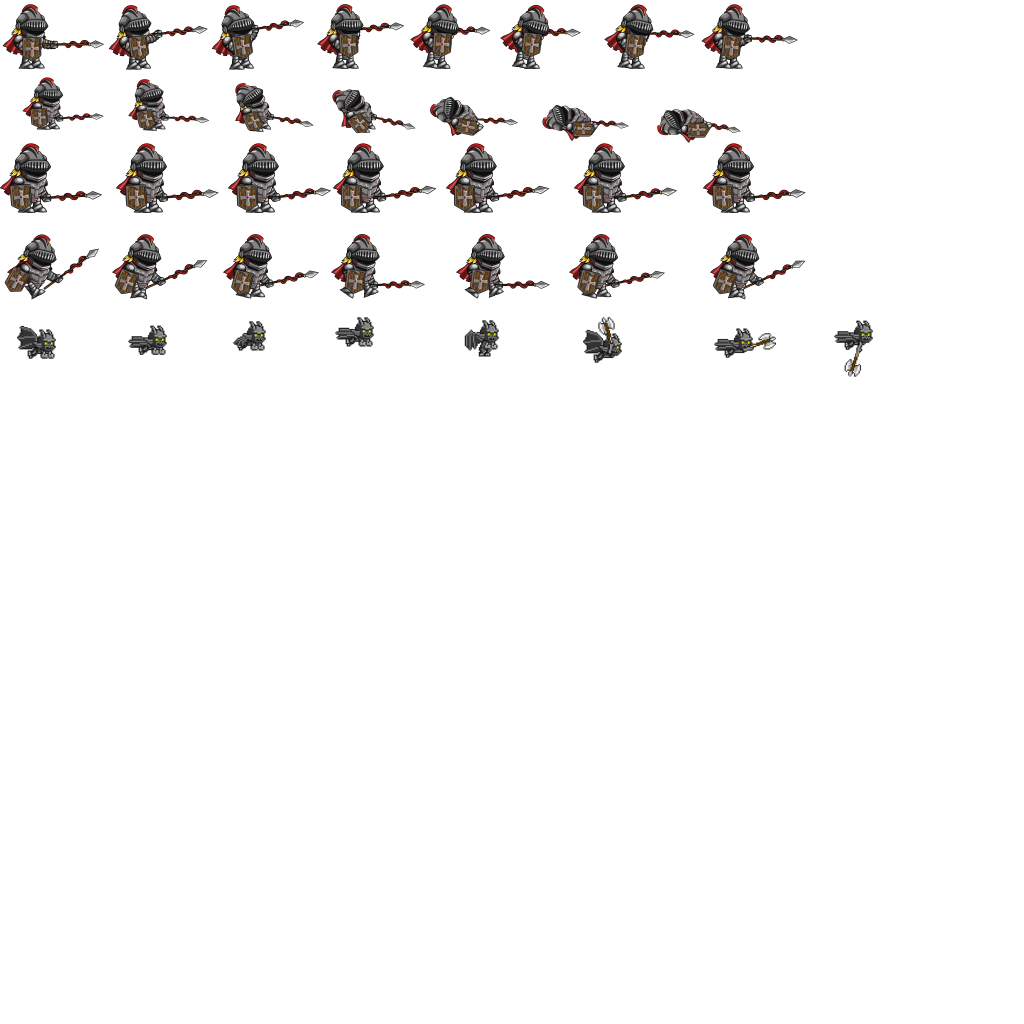
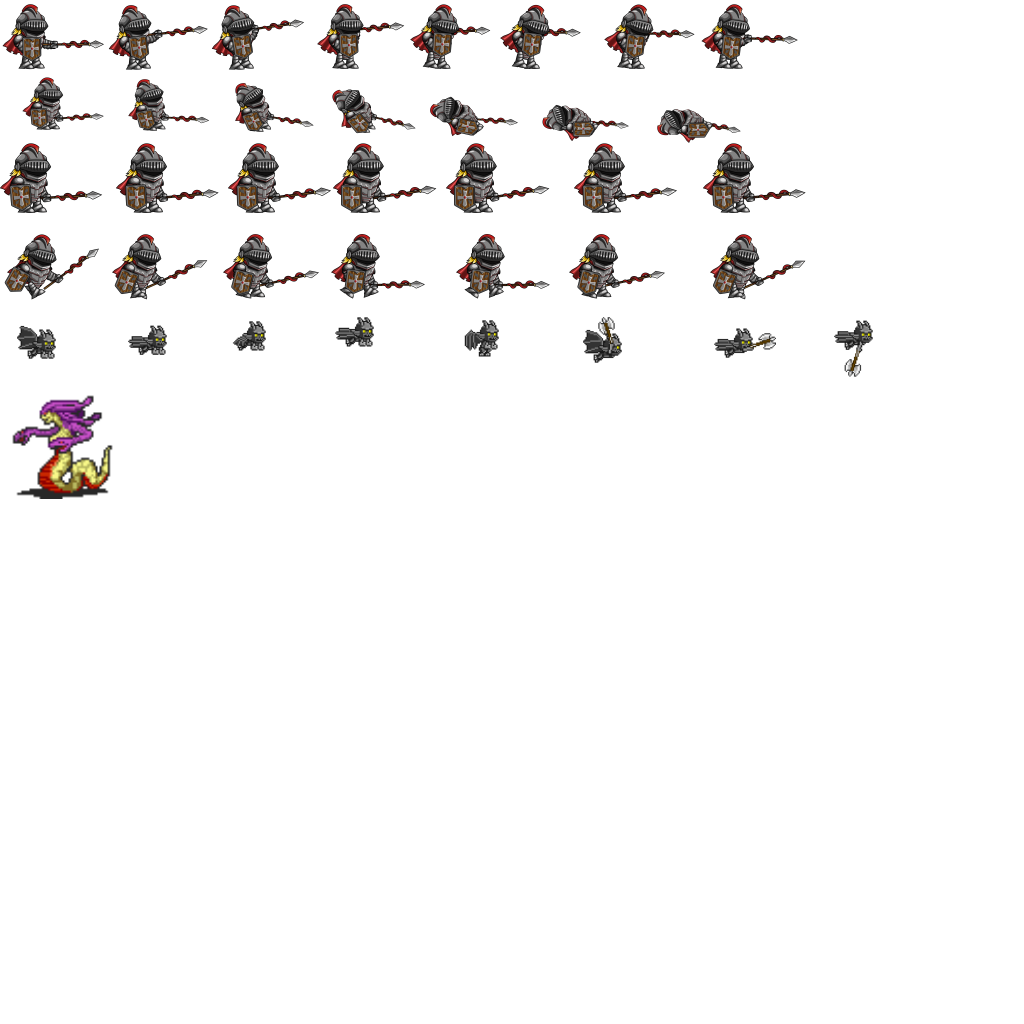
Boss

Changed region(s): [[0.0, 0.375, 0.125, 0.5]]

diff --git a/Motor2D/enemy_boss.cpp b/Motor2D/enemy_boss.cpp
@@ -1,0 +1,93 @@
+#include "j1App.h"
+#include "enemy_boss.h"
+#include "ModuleCollision.h"
+#include "j1Particles.h"
+#include "SDL\include\SDL_timer.h"
+#include "p2Log.h"
+#include "j1Pathfinding.h"
+#include "j1Map.h"
+#include "j1Enemies.h"
+
+Enemy_Boss::Enemy_Boss(int x, int y) : j1Enemy(x, y)
+{
+
+	idle.PushBack({ 893,4,96,117 });
+	idle.PushBack({ 775,4,96,117 });
+	idle.PushBack({ 667,4,96,117 });
+	idle.PushBack({ 555,4,96,117 });
+	idle.PushBack({ 447,4,96,117 });
+	idle.PushBack({ 340,4,96,117 });
+	idle.PushBack({ 232,4,96,117 });
+	idle.PushBack({ 124,4,96,117 });
+	idle.PushBack({ 10,4,96,117 });
+	idle.PushBack({ 87,131,96,117 });
+	idle.PushBack({ 190,131,96,117 });
+	idle.PushBack({ 305,131,96,117 });
+	/*idle.PushBack({ 446,2,45,56 });
+	idle.PushBack({ 387,2,45,56 });
+	idle.PushBack({ 333,2,45,56 });
+	idle.PushBack({ 278,2,45,56 });
+	idle.PushBack({ 223,2,45,56 });
+	idle.PushBack({ 169,2,45,56 });
+	idle.PushBack({ 115,2,45,56 });
+	idle.PushBack({ 61,2,47,56 });
+	idle.PushBack({ 43,63,45,56 });
+	idle.PushBack({ 95,63,48,56 });
+	idle.PushBack({ 152,63,45,56 });*/
+	idle.speed = 0.1f;
+
+	//idle.PushBack({ 13,398,99,101 });
+
+	/*fly.PushBack({ 17,326,39,33 });
+	fly.PushBack({ 128,325,39,30 });
+	fly.PushBack({ 233,321,33,30 });
+	fly.PushBack({ 336,317,38,30 });
+	fly.speed = 0.1f;*/
+
+
+	attack.PushBack({ 583,317,39,46 });
+	attack.PushBack({ 714,328,62,30 });
+	attack.PushBack({ 834,320,39,57 });
+	attack.speed = 0.1f;
+
+	animation = &idle;
+	LOG("x %i y %i", position.x, position.y);
+	collider = App->collision->AddCollider({ position.x, position.y, 35, 38 }, COLLIDER_TYPE::COLLIDER_ENEMY, (j1Module*)App->enemies);
+}
+
+void Enemy_Boss::Move()
+{
+
+	/*iPoint mapPos = App->map->WorldToMap(position.x, position.y);
+
+	if (mapPos.x < App->enemies->playerMapPos.x + 5 && mapPos.x > App->enemies->playerMapPos.x - 5) {
+		if (App->pathfinding->CreatePath(mapPos, App->enemies->playerMapPos) != -1) {
+			const p2DynArray<iPoint>* path = App->pathfinding->GetLastPath();
+			if (path->Count() > 0) {
+				pathToFollow = iPoint(path->At(0)->x, path->At(0)->y);
+				if (pathToFollow.x < mapPos.x) {
+					gargoyleSpeed.x = -1.0f;
+				}
+				else if (pathToFollow.x > mapPos.x) {
+					gargoyleSpeed.x = 1.0f;
+				}
+				if (pathToFollow.y < mapPos.y) {
+					gargoyleSpeed.y = -1.0f;
+				}
+				else if (pathToFollow.y > mapPos.y) {
+					gargoyleSpeed.y = 1.0f;
+				}
+			}
+		}
+	}
+
+	position += gargoyleSpeed;*/
+
+}
+
+void Enemy_Boss::OnCollision(Collider* collider) {
+}
+
+uint Enemy_Boss::getHitPoints() {
+	return hitPoints;
+}

diff --git a/Motor2D/j1Enemies.cpp b/Motor2D/j1Enemies.cpp
@@ -6,6 +6,7 @@
 #include "j1Textures.h"
 #include "j1Enemy.h"
 #include "enemy_gargoyle.h"
+#include "enemy_boss.h"
 #include "ModuleCollision.h"
 #include "j1Player.h"
 #include "p2Log.h"
@@ -31,7 +32,8 @@ bool j1Enemies::Start()
 	if (sprites == nullptr) {
 		LOG("No cargado");
 	}
-	sprites = App->tex->Load("Enemies/Enemies.png");
+	//sprites = App->tex->Load("Enemies/Enemies.png");
+	final_boss = App->tex->Load("Enemies/Final_boss2.png");
 	if (sprites != nullptr) {
 		LOG("Cargado");
 	}
@@ -69,6 +71,11 @@ bool j1Enemies::Update(float dt)
 
 	for (uint i = 0; i < MAX_ENEMIES; ++i)
 		if (enemies[i] != nullptr) enemies[i]->Draw(sprites);
+
+	for (uint i = 0; i < MAX_ENEMIES; ++i)
+		if (enemies[i] != nullptr) enemies[i]->Move();
+	for (uint i = 0; i < MAX_ENEMIES; ++i)
+		if (enemies[i] != nullptr) enemies[i]->Draw(final_boss);
 
 	for (uint i = 0; i < MAX_ENEMIES; ++i)
 		if (enemies[i] != nullptr) enemies[i]->Move();
@@ -166,6 +173,9 @@ void j1Enemies::SpawnEnemy(const EnemyInfo& info)
 			break;
 		case ENEMY_TYPES::Soldier:
 			//enemies[i] = new Enemy(info.x, info.y);
+			break;
+		case ENEMY_TYPES::Final_Boss:
+			enemies[i] = new Enemy_Boss(info.x, info.y);
 			break;
 		}
 	}

diff --git a/Motor2D/j1Player.cpp b/Motor2D/j1Player.cpp
@@ -138,7 +138,8 @@ bool j1Player::Update(float dt)
 		App->render->camera.x = -position.x + (App->win->screen_surface->w / 2);
 		App->render->camera.y = position.y - (App->win->screen_surface->h);
 		collider = App->collision->AddCollider({ position.x, position.y, 46, 69 }, COLLIDER_PLAYER, this);
-		App->enemies->AddEnemy(Gargoile, position.x + 60, position.y + 5);
+		//App->enemies->AddEnemy(Gargoile, position.x + 60, position.y + 5);
+		App->enemies->AddEnemy(Final_Boss, position.x + 60, position.y -30);
 		firstUpdate = false;
 	}
 	gid=App->map->Get_gid(position.x/*-75*/, position.y);
@@ -220,7 +221,7 @@ bool j1Player::Update(float dt)
 	{
 	
 	}
-
+	
 
 	if (jumping == true) {
 		current_animation = &jump;
@@ -340,7 +341,7 @@ bool j1Player::CleanUp()
 
 void j1Player::Shot()
 {
-	App->particles->AddParticle(App->particles->fire_ball, position.x +10, position.y + 20, COLLIDER_ATTACK, NULL, { 5,0 });
+	App->particles->AddParticle(App->particles->fire_ball, position.x +25, position.y + 25, COLLIDER_ATTACK, NULL, { 5,0 });
 }
 
 void j1Player::Thunder()

diff --git a/Motor2D/enemy_boss.h b/Motor2D/enemy_boss.h
@@ -1,0 +1,23 @@
+#ifndef _ENEMY_BOSS_H__ 
+#define _ENEMY_BOSS_H__
+
+#include "j1Enemy.h"
+
+
+class Enemy_Boss : public j1Enemy
+{
+private:
+	Animation idle;
+	Animation attack;
+	Animation fly;
+	iPoint original_pos;
+	iPoint pathToFollow;
+	iPoint gargoyleSpeed;
+
+public:
+	Enemy_Boss(int x, int y);
+	void Move();
+	void OnCollision(Collider* collider);
+	uint getHitPoints();
+};
+#endif

diff --git a/Motor2D/j1Enemies.h b/Motor2D/j1Enemies.h
@@ -14,7 +14,8 @@ enum ENEMY_TYPES
 {
 	NO_TYPE,
 	Gargoile,
-	Soldier
+	Soldier,
+	Final_Boss,
 };
 
 class j1Enemy;
@@ -53,6 +54,7 @@ private:
 	EnemyInfo queue[MAX_ENEMIES];
 	j1Enemy* enemies[MAX_ENEMIES];
 	SDL_Texture* sprites;
+	SDL_Texture* final_boss;
 
 	float proj_speed = 5.0f;
 	float speed_x_mult, speed_y_mult, common_mult, a_mult;
